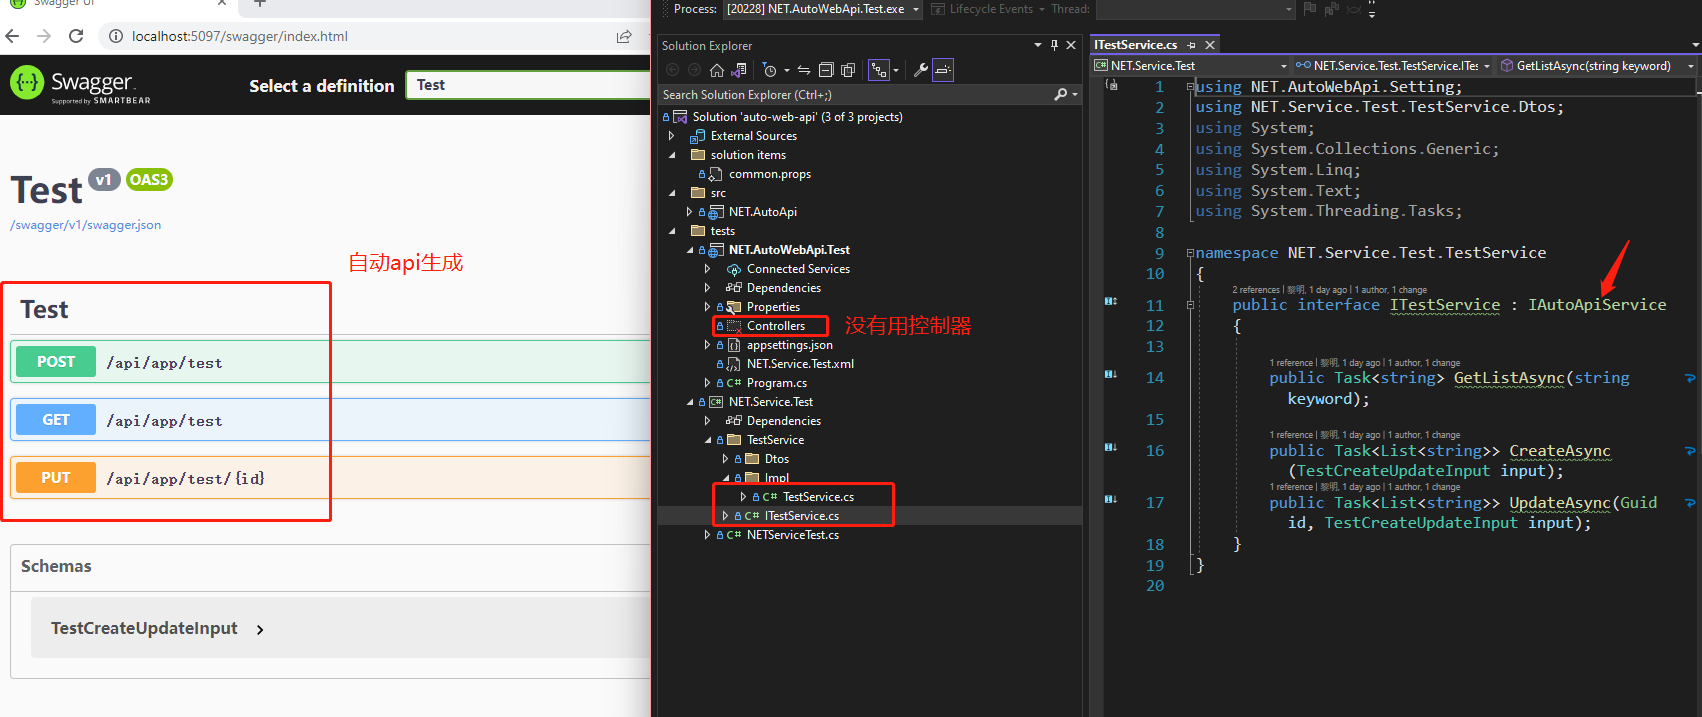
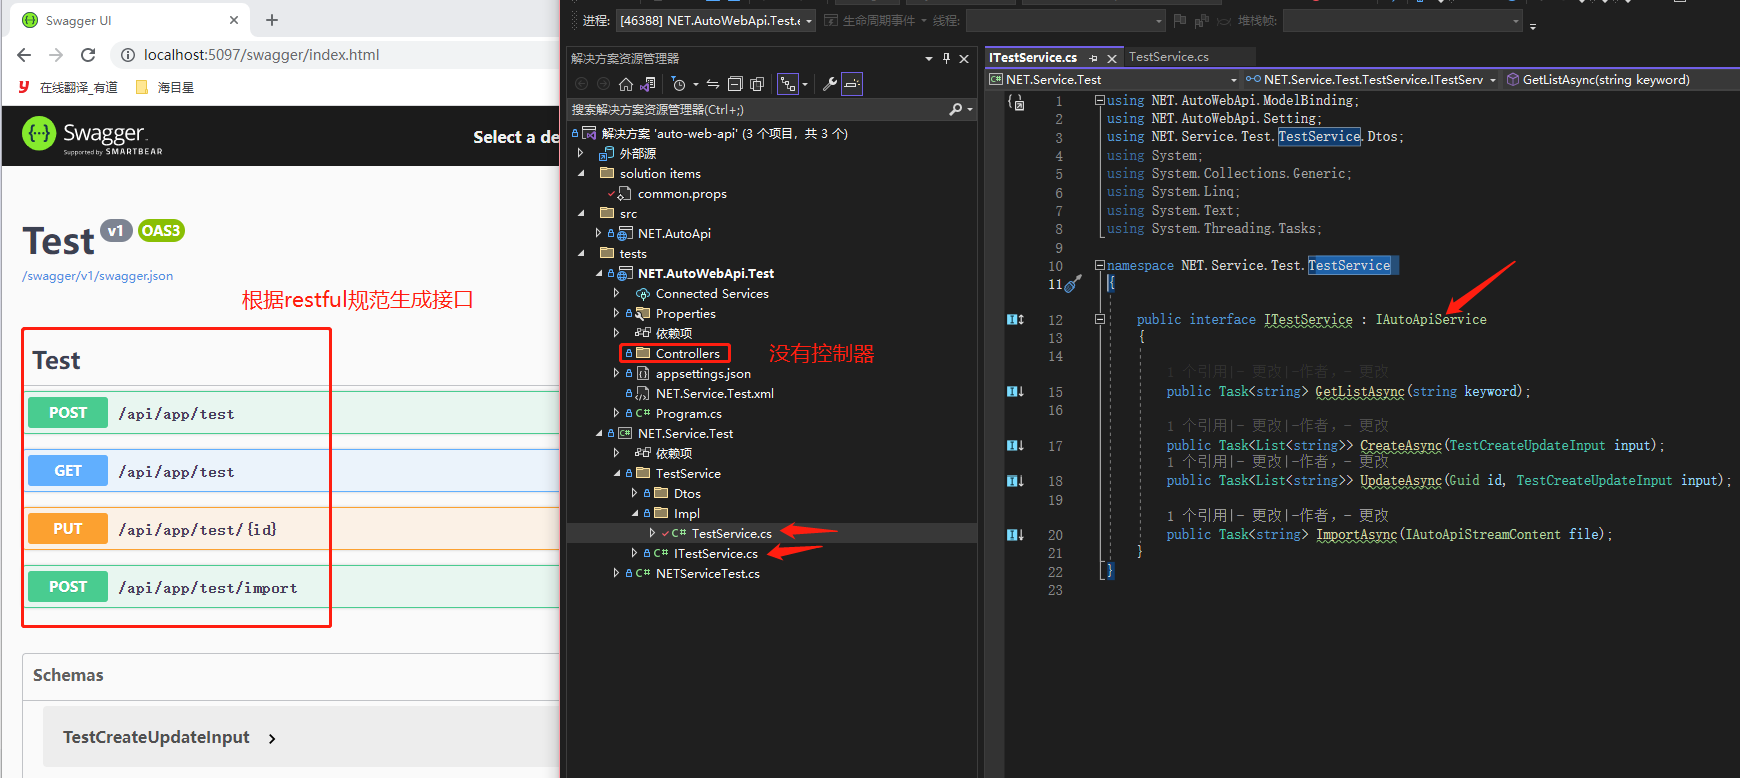
升级到1.0.3，增加动态webapi的文件流处理

diff --git a/tests/NET.Service.Test/TestService/Impl/TestService.cs b/tests/NET.Service.Test/TestService/Impl/TestService.cs
@@ -32,6 +32,11 @@ namespace NET.Service.Test.TestService.Impl
             };
         }
 
+        /// <summary>
+        /// 文件流使用
+        /// </summary>
+        /// <param name="file"></param>
+        /// <returns></returns>
         public async Task<string> ImportAsync(IAutoApiStreamContent file)
         {
             using var fileStream = file.GetStream();

diff --git a/README.en.md b/README.en.md
@@ -82,6 +82,19 @@ app.UseAutoApiService();
                 $"{id}|{input.Code}|{input.Name}"
             };
         }
+        
+        /// <summary>
+        /// Upload file. If you upload files,Please use IAutoApiStreamContent[] .
+        /// </summary>
+        /// <param name="file"></param>
+        /// <returns></returns>
+        public async Task<string> ImportAsync(IAutoApiStreamContent file)
+        {
+            using var fileStream = file.GetStream();
+
+
+            return file.FileName;
+        }
     }
 ```
 
@@ -89,7 +102,6 @@ app.UseAutoApiService();
 3. Final effect
 
 ![Final effect](./doc/%E8%BF%90%E8%A1%8C%E6%95%88%E6%9E%9C%E5%9B%BEen.png)
-
 
 
 

diff --git a/README.md b/README.md
@@ -81,6 +81,19 @@ app.UseAutoApiService();
                 $"{id}|{input.Code}|{input.Name}"
             };
         }
+        
+        /// <summary>
+        /// 文件流使用，上传的时候正常传到报文体内就行了
+        /// </summary>
+        /// <param name="file"></param>
+        /// <returns></returns>
+        public async Task<string> ImportAsync(IAutoApiStreamContent file)
+        {
+            using var fileStream = file.GetStream();
+
+
+            return file.FileName;
+        }
     }
 ```
 
@@ -91,5 +104,4 @@ app.UseAutoApiService();
 #### 使用本项目的框架
 
 1. [Yi.Framework](https://gitee.com/ccnetcore/Yi)
-
 
